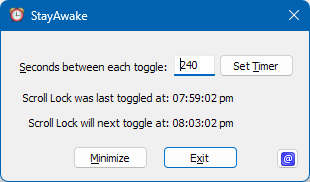
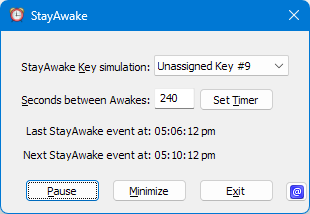
Updated README & VersionHistory. Including new screenshots.

diff --git a/VersionHistory.md b/VersionHistory.md
@@ -1,5 +1,17 @@
 ## Version History
 
+### Version 1.1.0.0 [September 27, 2025]
+
+#### Enhancements
+1. StayAwake now offers a choice from **12 keycode simulations** to better serve individual user situations.
+
+2. Added **Pause/Resume** button to pause or resume the timer-based key simulations.
+
+
+**Release:** [1.1.0.0 Release](https://github.com/shriprem/StayAwake/releases/tag/v1.1.0.0)
+
+---
+
 ### Version 1.0.0.3 [March 15, 2025]
 * Updated README.md with information about the application configuration file.
 * Added range check while reading the **TimerIntervalInSeconds** setting in the application configuration file.
